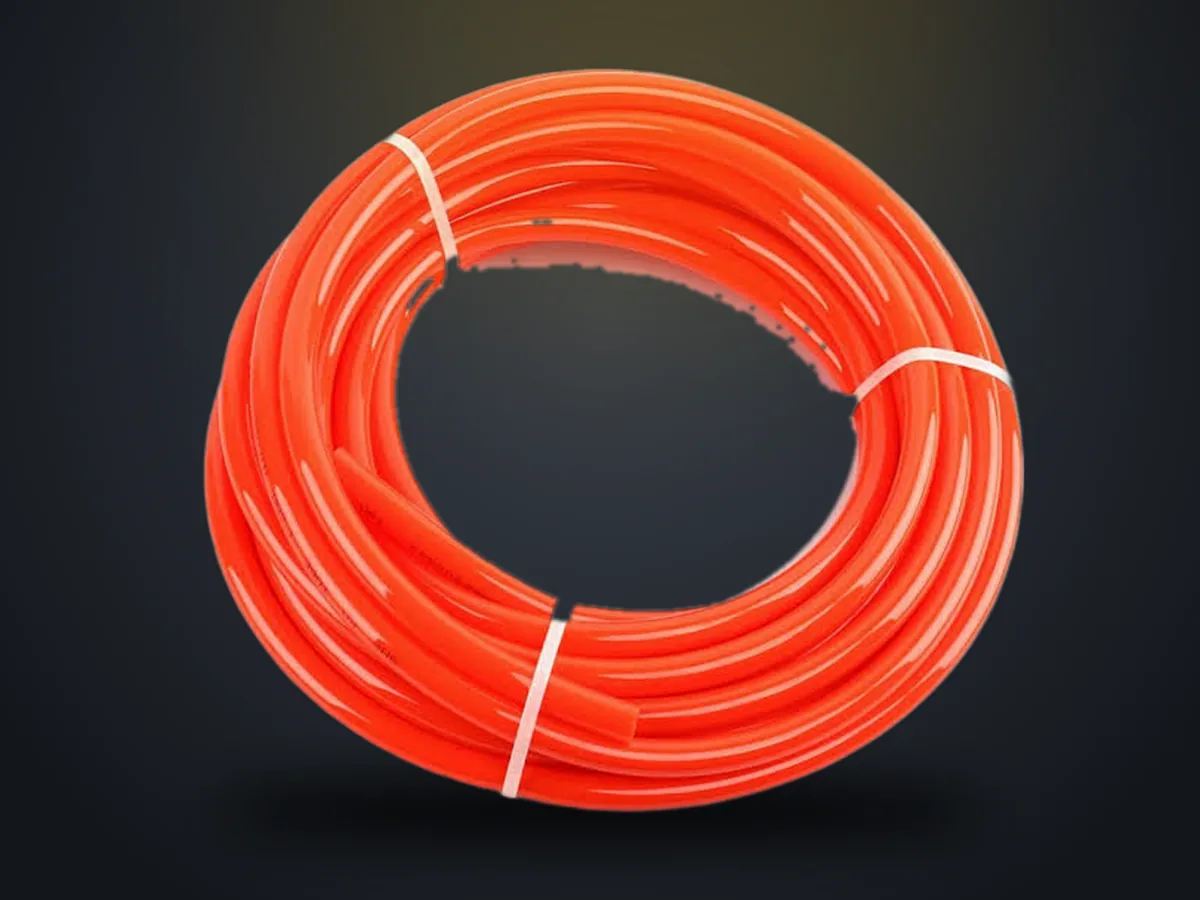
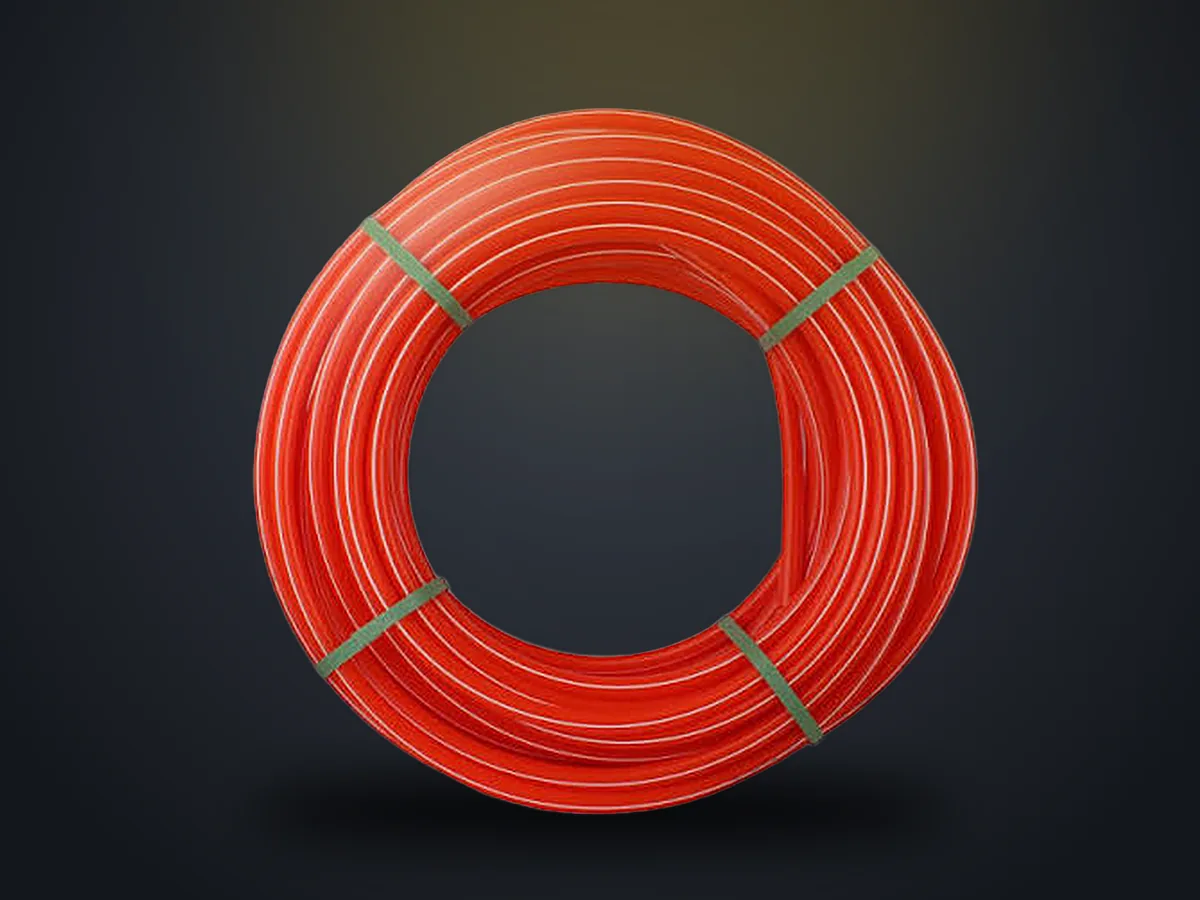
New full hose coil photo with subtle sheen; nudge magic box label in wall

diff --git a/index.html b/index.html
@@ -522,7 +522,7 @@ nav{font-weight:600}
       <!-- labels -->
       <g class="lbl l1"><rect x="150" y="150" width="148" height="40" rx="20" fill="#14171C" fill-opacity=".92"/><text x="224" y="176" text-anchor="middle">خرطوم كهربائي</text></g>
       <g class="lbl l2"><rect x="60" y="562" width="132" height="40" rx="20" fill="#14171C" fill-opacity=".92"/><text x="126" y="588" text-anchor="middle">ماسورة PVC</text></g>
-      <g class="lbl l3"><rect x="236" y="410" width="104" height="40" rx="20" fill="#14171C" fill-opacity=".92"/><text x="288" y="436" text-anchor="middle">علبة ماجيك</text></g>
+      <g class="lbl l3"><rect x="214" y="398" width="104" height="40" rx="20" fill="#14171C" fill-opacity=".92"/><text x="266" y="424" text-anchor="middle">علبة ماجيك</text></g>
       <g class="lbl l4"><rect x="250" y="484" width="96" height="40" rx="20" fill="#14171C" fill-opacity=".92"/><text x="298" y="510" text-anchor="middle">كابلات</text></g>
      </svg>
     </div>
